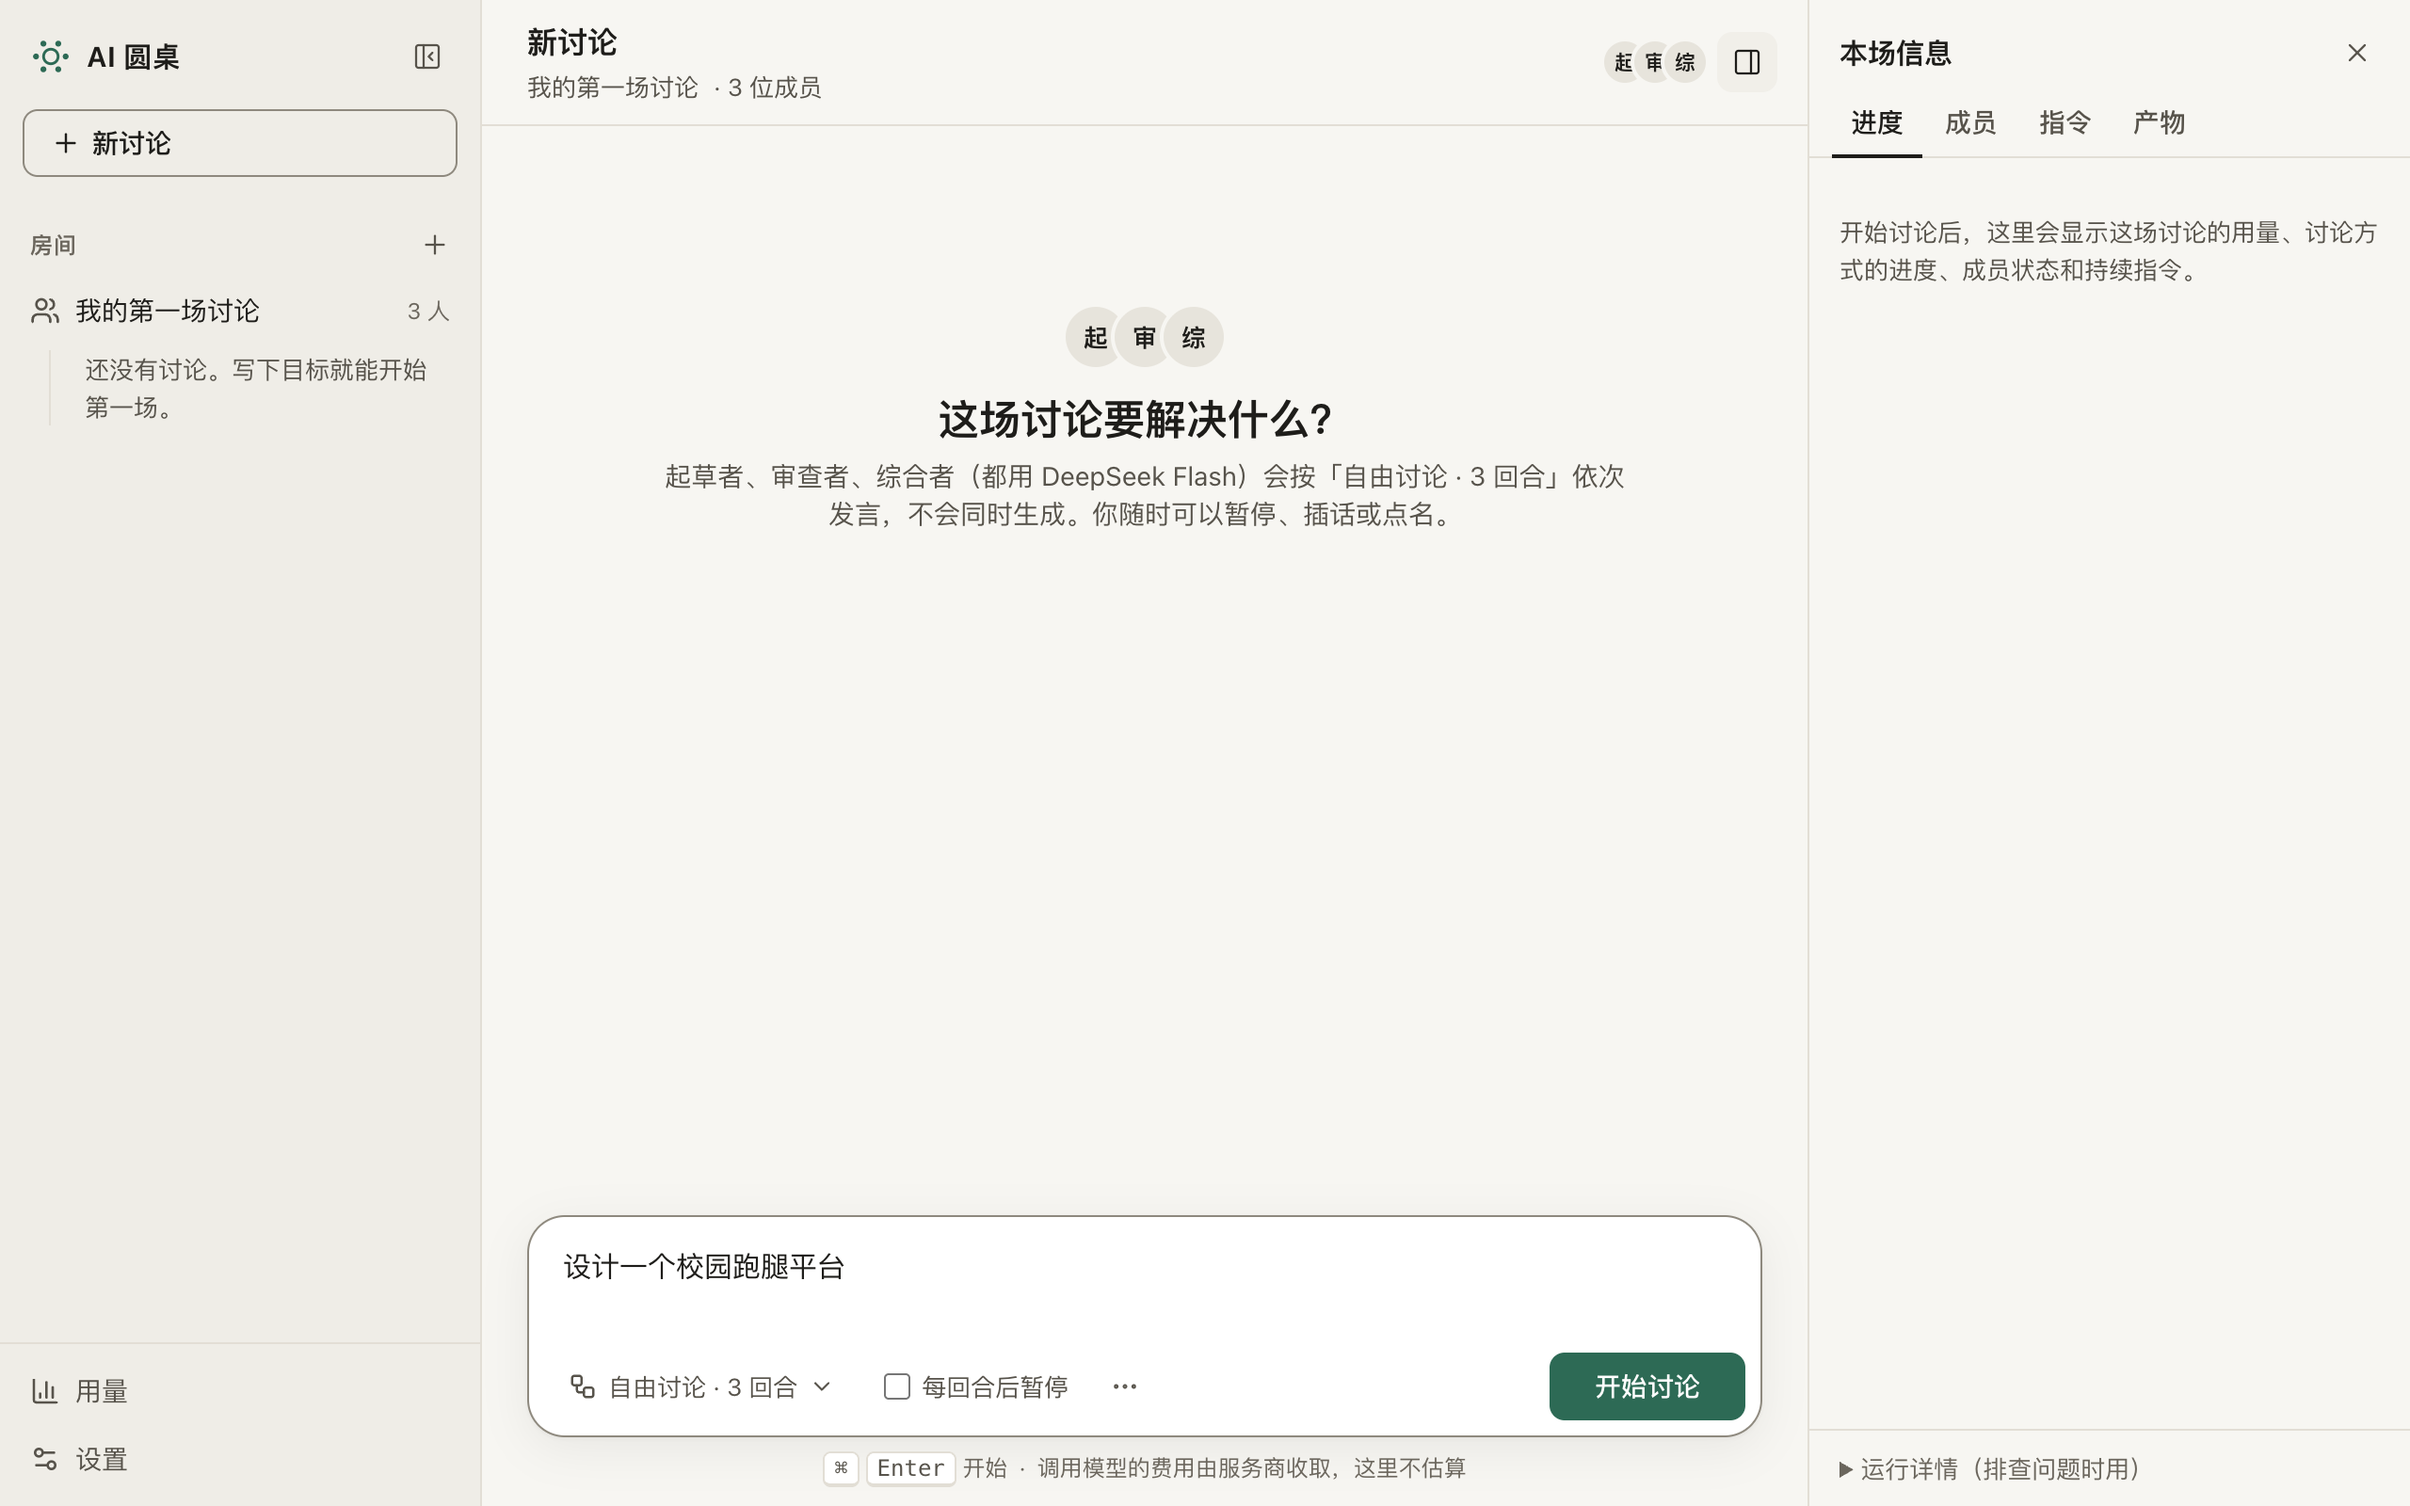
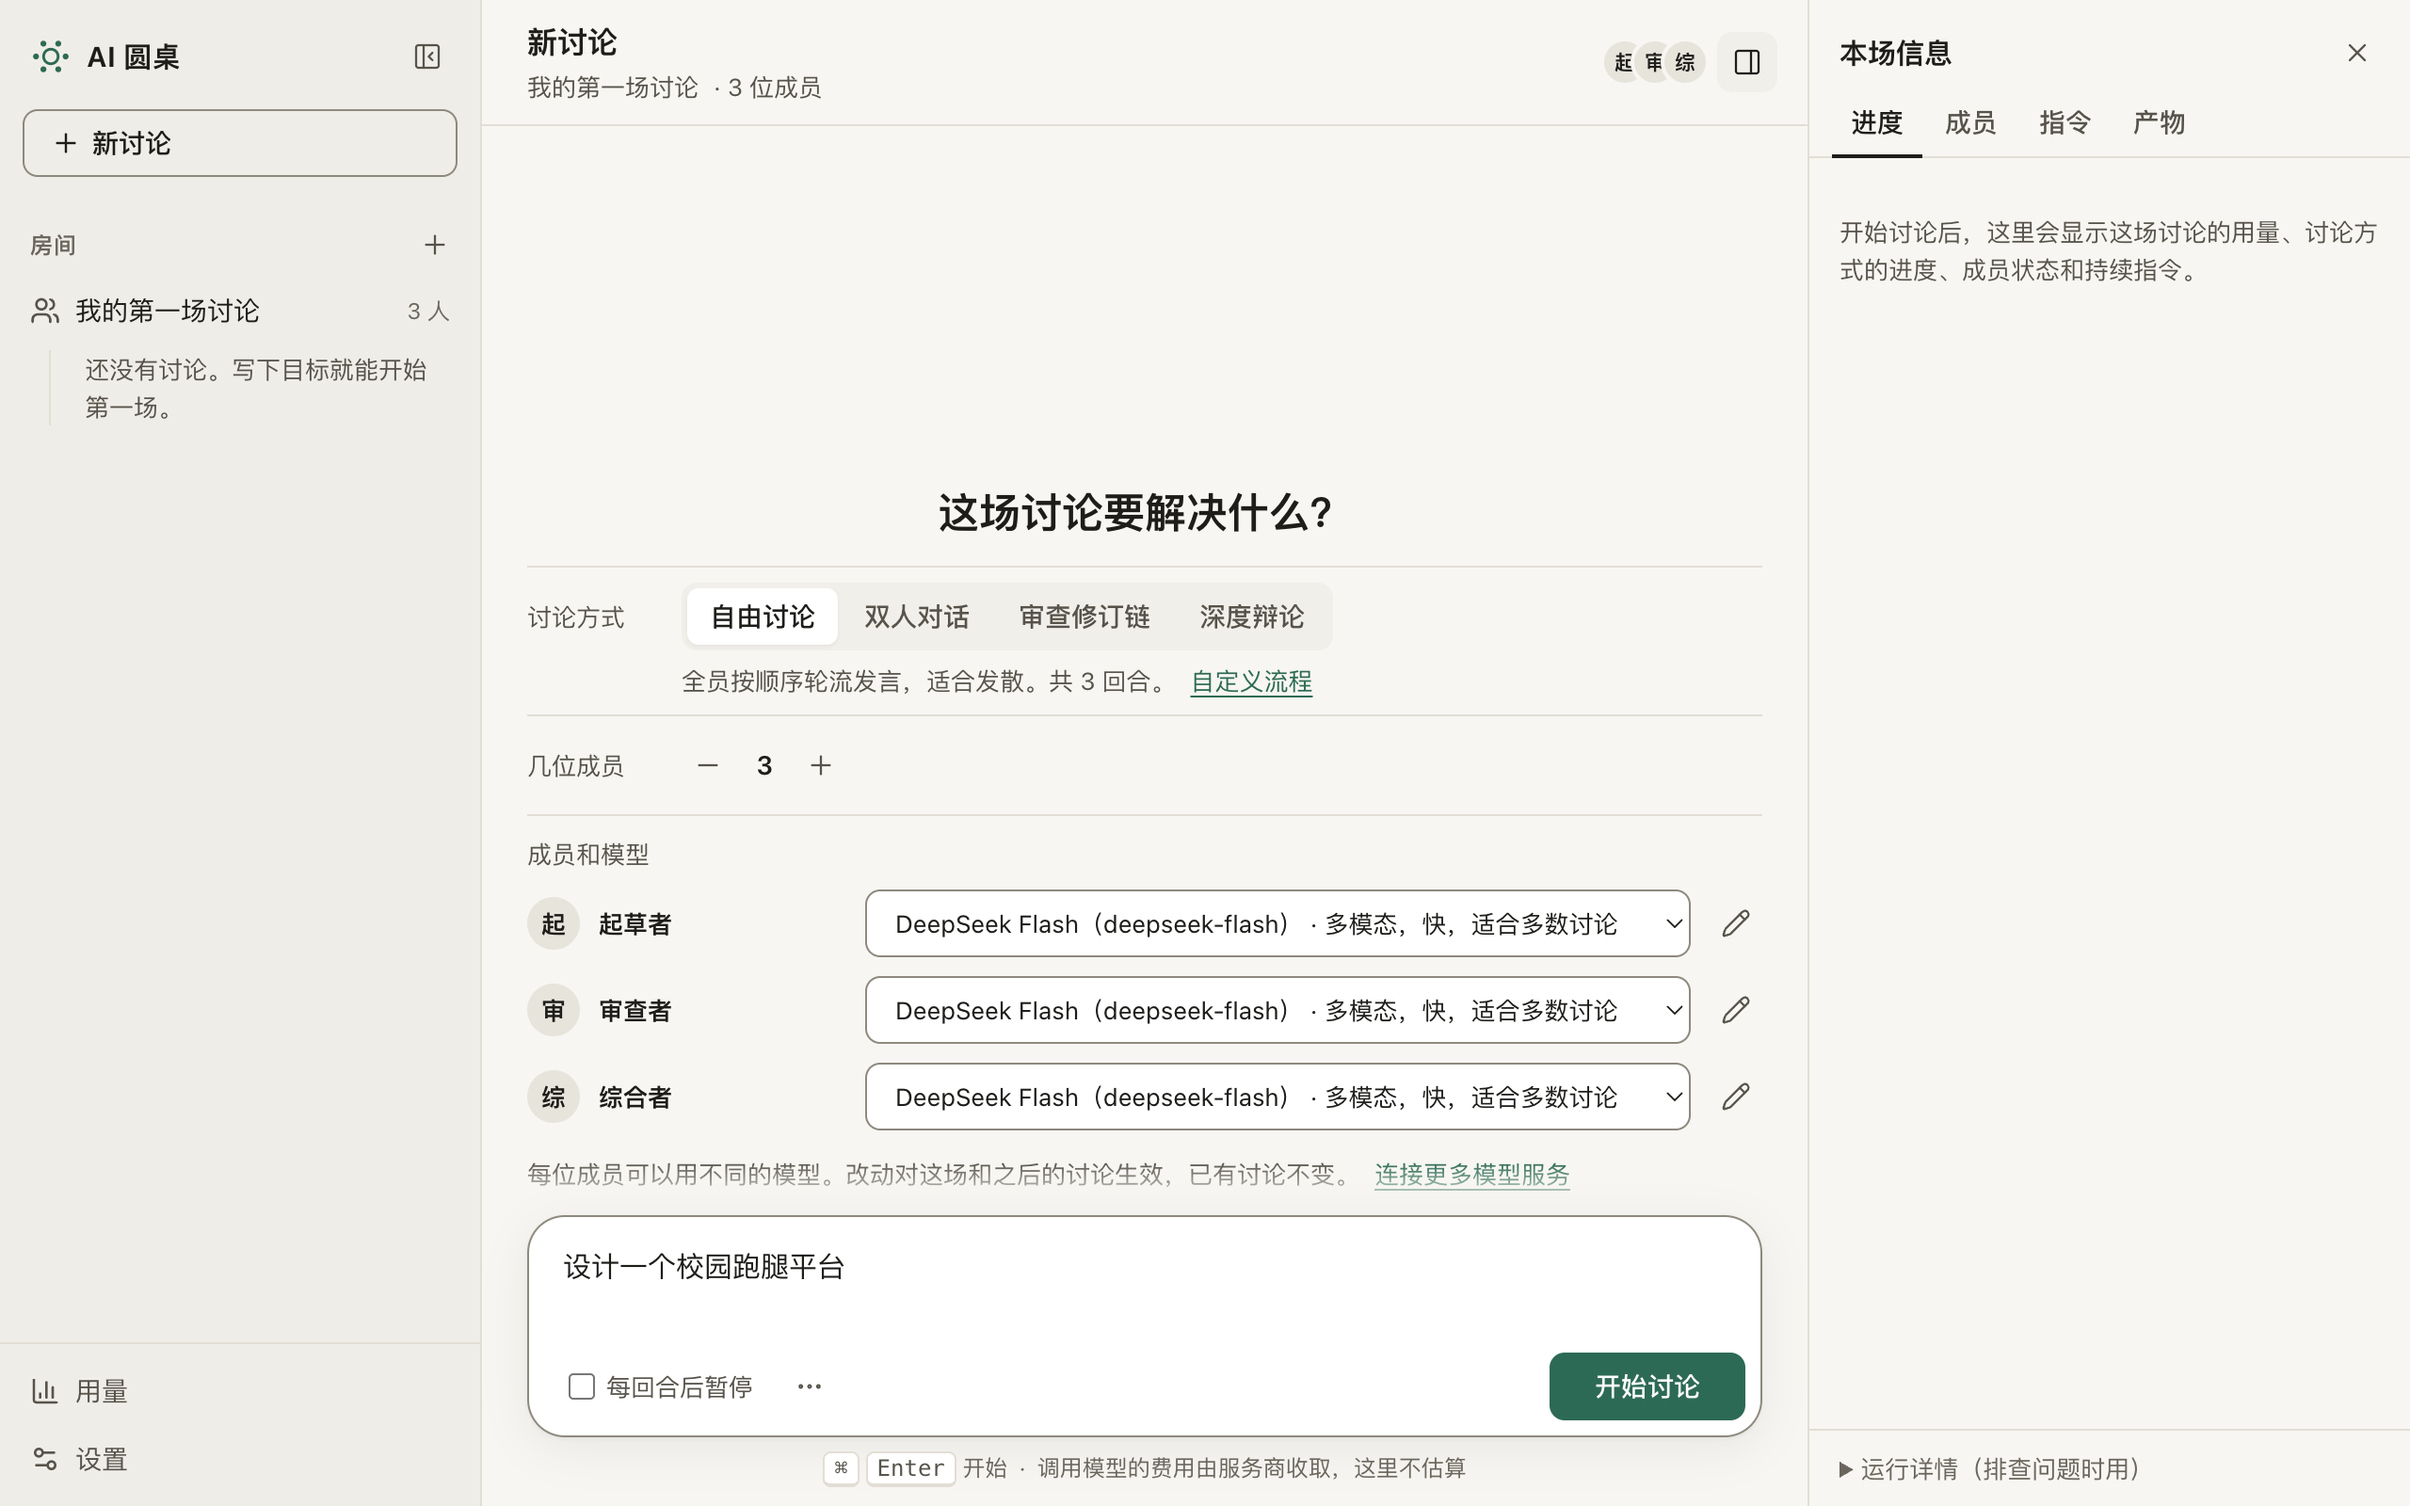
fix: a class of its own for the member count; record the checks and screenshots
The stepper class was already taken by the step indicator, whose top margin put
the count below its label, and whose own layout this one could have disturbed.

diff --git a/tests/unit/rendererRooms/newDiscussionSetup.test.tsx b/tests/unit/rendererRooms/newDiscussionSetup.test.tsx
@@ -43,7 +43,7 @@ describe('新讨论 › 三步', () => {
   it('opens on free discussion with three, one row each, and no switch to take anyone out', () => {
     show();
     expect(mode('自由讨论').getAttribute('aria-pressed')).toBe('true');
-    expect(document.querySelector('.stepper-value')?.textContent).toBe('3');
+    expect(document.querySelector('.member-count-value')?.textContent).toBe('3');
     expect(rowsShown()).toEqual(['起草者', '审查者', '综合者']);
     expect(screen.queryByRole('switch')).toBeNull();
     expect(screen.getByRole('button', { name: '编辑「审查者」' })).toBeTruthy();
@@ -65,7 +65,7 @@ describe('新讨论 › 三步', () => {
     const spy = show();
     for (let count = 4; count <= 8; count++) {
       fireEvent.click(plus());
-      await waitFor(() => expect(document.querySelector('.stepper-value')?.textContent).toBe(String(count)));
+      await waitFor(() => expect(document.querySelector('.member-count-value')?.textContent).toBe(String(count)));
     }
     expect(rowsShown()).toEqual(['起草者', '审查者', '综合者', '反方', '核查员', '成员 6', '成员 7', '成员 8']);
     expect(spy.create).toHaveBeenCalledTimes(5);

diff --git a/src/renderer/features/rooms/NewDiscussionSetup.tsx b/src/renderer/features/rooms/NewDiscussionSetup.tsx
@@ -95,9 +95,9 @@ export function NewDiscussionSetup({ api, roomId, members, draft, providers, rea
     <div className="setup-line"><span className="setup-label">几位成员</span>
       <div className="setup-control">
         {fixed ? <span className="setup-fixed">固定 2 人</span>
-          : <span className="stepper" role="group" aria-label="几位成员">
+          : <span className="member-count" role="group" aria-label="几位成员">
             <IconButton size="sm" icon={Minus} label="减少一位成员" disabled={disabled || count <= MIN_PARTICIPANTS} onClick={() => void arrange(template, count - 1)} />
-            <output className="stepper-value tabular" aria-live="polite">{count}</output>
+            <output className="member-count-value tabular" aria-live="polite">{count}</output>
             <IconButton size="sm" icon={Plus} label="增加一位成员" disabled={disabled || count >= MAX_PARTICIPANTS} onClick={() => void arrange(template, count + 1)} /></span>}
       </div></div>
     <div className="setup-members"><span className="setup-label">成员和模型</span>

diff --git a/src/renderer/features/rooms/rooms.css b/src/renderer/features/rooms/rooms.css
@@ -32,8 +32,8 @@
 .empty-room p.setup-hint { margin: 6px 0 0; }
 .setup-link { margin-left: 8px; font-size: inherit; }
 .setup-fixed { font-size: 13px; line-height: 36px; color: var(--text); }
-.stepper { display: inline-flex; align-items: center; gap: 4px; min-height: 36px; }
-.stepper-value { min-width: 24px; text-align: center; font-size: 14px; font-weight: 600; }
+.member-count { display: flex; align-items: center; gap: 4px; height: 36px; }
+.member-count-value { min-width: 24px; text-align: center; font-size: 14px; font-weight: 600; }
 .setup > .setup-members { flex: 0 1 auto; display: flex; flex-direction: column; min-height: 0; padding: 10px 0 0; border-top: 1px solid var(--line); }
 .setup-list { flex: 0 1 auto; min-height: 44px; list-style: none; margin: 4px 0 0; padding: 0; overflow-y: auto; }
 .setup-row { display: grid; grid-template-columns: auto minmax(84px, .6fr) minmax(0, 2fr) auto; align-items: center; gap: 2px 10px; padding: 5px 0; }

diff --git a/tests/e2e/mixed-providers.spec.ts b/tests/e2e/mixed-providers.spec.ts
@@ -439,7 +439,7 @@ test('new discussion: choose how it runs and how many, give each one a model, an
   const rows = () => page.locator('.setup-row b').allTextContents();
   const model = (name: string) => page.getByRole('combobox', { name: `${name} 的模型` });
   const mode = (name: string) => page.locator('.setup-seg').getByRole('button', { name, exact: true });
-  const count = page.locator('.stepper-value');
+  const count = page.locator('.member-count-value');
   const pick = async (name: string, service: string, id: string) => {
     const value = await model(name).locator(`optgroup[label="${service}"] option`, { hasText: `（${id}）` }).getAttribute('value');
     await model(name).selectOption(value!);

diff --git a/docs/verification/2026-11-03-remove-cost.md b/docs/verification/2026-11-03-remove-cost.md
@@ -1,6 +1,6 @@
 # 移除费用、只用内置目录：验收记录
 
-分支 `codex/remove-cost-open-models`。下表的全量结果在 `5abd3e9` 上；之后的修改（migration 里不留类型名、子模型补全、自动发现）只跑了受影响的部分，结果见“最后一轮”，全量由总控重跑。决策见 [DECISIONS](../DECISIONS.md) D133–D143。
+分支 `codex/remove-cost-open-models`。下表全部在 `f184a85` 上执行；之后只把“几位成员”的样式类改了名（和全局已有的类撞名，导致这一行对不齐），重跑了 typecheck、受影响的单元测试、`tests/e2e/mixed-providers.spec.ts`、r12-acceptance 和扫描，并增加本记录和截图。决策见 [DECISIONS](../DECISIONS.md) D133–D144。
 
 ## 第 1 层：自动化
 
@@ -8,10 +8,10 @@
 |---|---|
 | `pnpm run typecheck` | exit 0 |
 | `node scripts/scan-public-terms.cjs <外部词表>` | exit 0，命中 0 处 |
-| `pnpm test` | exit 0，112 个文件，1700 条通过 |
+| `pnpm test` | exit 0，114 个文件，1846 条通过 |
 | `pnpm build` | exit 0 |
-| `pnpm rehearse:upgrade <临时 v13 副本>` | exit 0，`schema_migrations` 13 → 14，输入文件没有变化 |
-| `pnpm e2e` | exit 0，26 条通过 |
+| `pnpm rehearse:upgrade <临时 v13 副本>`（旧 v11 文本和新 v11 文本各建一份） | 都 exit 0，`schema_migrations` 13 → 14，输入文件没有变化 |
+| `pnpm e2e` | exit 0，30 条通过 |
 | `pnpm run pack` 后 `pnpm e2e:packaged` | exit 0，3 条通过 |
 | 全部探针 | 都 PASS，见下 |
 
@@ -19,18 +19,12 @@
 
 探针：r01（默认、`--r03-recovery`、`--joint-ui`），r09-electron（首次、重启），r09-native，r12-electron（首次、重启），r12-acceptance，r07r08-electron（首次、重启），r10-r11-electron（首次、重启），r16-batch2（首次、两次重启），r14、r15（首次、重启），r16-acceptance，r16-continuity，r16-longhistory，premerge（首次、重启）。
 
-上一轮（`a4926bd`）`key-safety.spec.ts` 和 premerge 重启阶段失败，两处都是断言还按旧行为写。改完断言后在 `5abd3e9` 上从头重跑了一遍。
+上一轮（`4106d7e`）r01 联合界面、r12-electron、r12-acceptance、r16-acceptance 失败：前三个是内置演示成员被算成“没选模型”，是真 bug，已修；最后一个是文案断言。
 
 ### 扫描结果
 
 - src、tests、scripts、package.json、README、SPEC 命中 0 处（总控审查后的修改提交上重跑）。词表从外部文件读取，脚本本身不含词表。
 - `pnpm-lock.yaml` 8 处传递依赖：`http-proxy-agent`、`https-proxy-agent`，来自打包工具的依赖链，不进应用。
-
-### 最后一轮（子模型和自动发现）
-
-未提交前的同一份代码上执行：typecheck、全量 `pnpm test`、build、`pnpm e2e`（28 条）、词表扫描（命中 0 处）都通过；探针 r01、r07r08、r09、r10-r11（含重启）、r16-batch2、premerge（含重启）通过。升级演练（新 v11 文本重建的 v13 副本）通过，`provider_model_discovery` 新建，输入文件没有变化。`pnpm e2e:packaged` 和其他探针没有在这一轮跑，由总控重跑。
-
-多模态这一项之后，只跑了 typecheck、受影响的测试、`tests/e2e/mixed-providers.spec.ts`（6 条）、build 和扫描。
 
 ## 第 2 层：实操
 
